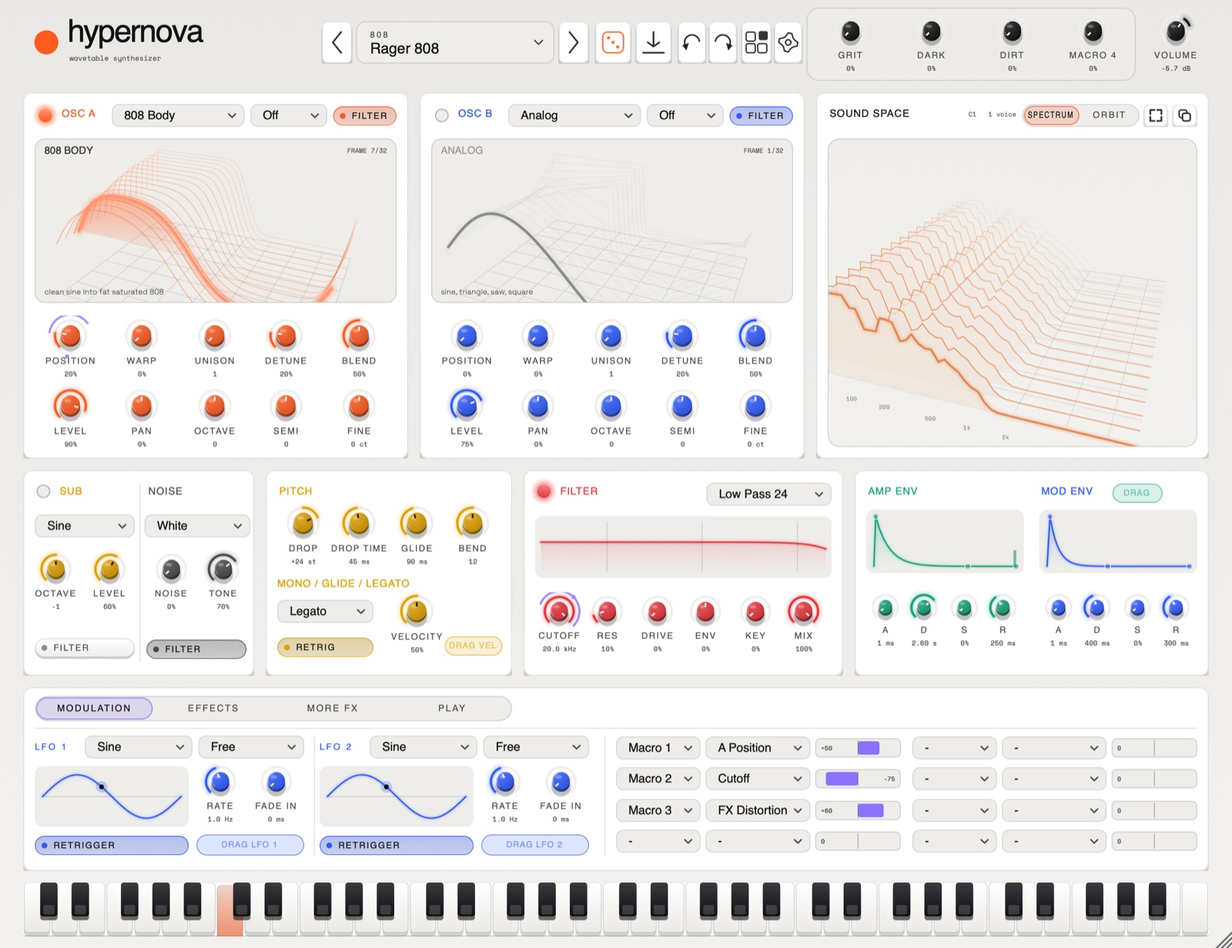
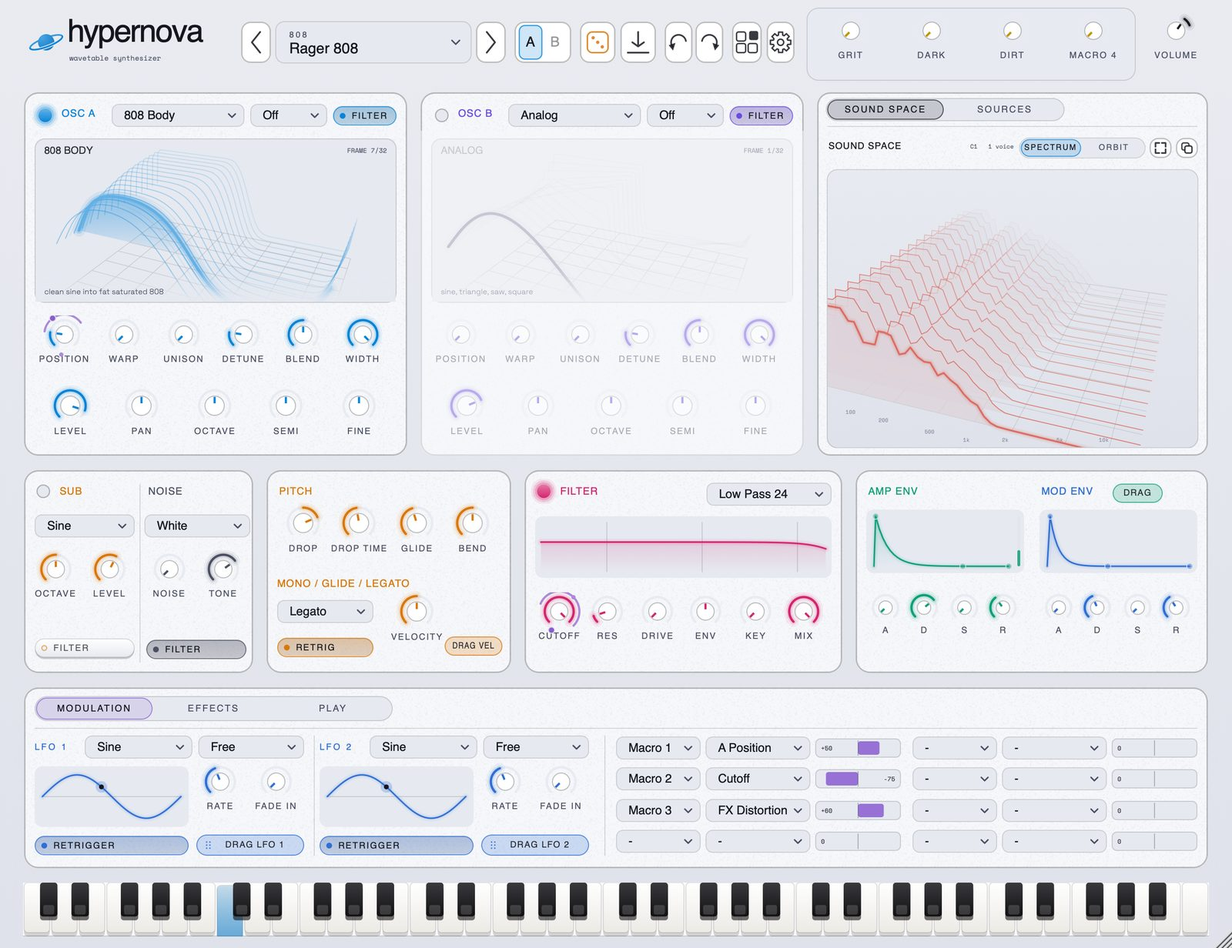
Hypernova 0.10.0: eight oscillators, the effects rack, A/B compare, spring motion, a new mark
Version bump, release notes, ROADMAP (items 11, 13, 14, 16, 25 and everyday workflow), HANDOFF, and
the site: copy for eight oscillators, the rack, 5-band EQ, modulatable effects and A/B; fresh
screenshots in all five themes; effects rack and Sources shots in the layout gallery.

diff --git a/docs/index.html b/docs/index.html
@@ -4,7 +4,7 @@
   <meta charset="utf-8">
   <meta name="viewport" content="width=device-width, initial-scale=1, viewport-fit=cover">
   <title>Hypernova, a wavetable synthesizer for macOS</title>
-  <meta name="description" content="Hypernova is a wavetable synthesizer for macOS. Two oscillators, a sampler, 419 sounds, a panel layout you arrange yourself, wavetable import, cross modulation and fourteen effects. VST3, AU and standalone, for Apple Silicon and Intel.">
+  <meta name="description" content="Hypernova is a wavetable synthesizer for macOS. Up to eight oscillators, a sampler, 419 sounds, a panel layout you arrange yourself, wavetable import, cross modulation and fourteen effects in a rack. VST3, AU and standalone, for Apple Silicon and Intel.">
   <meta name="theme-color" content="#f2f1ee">
   <meta name="color-scheme" content="light">
   <meta property="og:type" content="website">
@@ -16,7 +16,7 @@
   <link rel="preconnect" href="https://fonts.googleapis.com">
   <link rel="preconnect" href="https://fonts.gstatic.com" crossorigin>
   <link rel="stylesheet" href="https://fonts.googleapis.com/css2?family=Space+Grotesk:wght@400;500;700&family=Space+Mono:wght@400;700&display=swap">
-  <link rel="stylesheet" href="style.css?v=5">
+  <link rel="stylesheet" href="style.css?v=6">
   <script src="app.js?v=5" defer></script>
   <script src="play.js?v=5" defer></script>
 </head>
@@ -38,7 +38,7 @@
   <main id="main">
     <section class="hero" aria-labelledby="hero-title">
       <h1 id="hero-title">hypernova.</h1>
-      <p class="tagline">a wavetable synthesizer for macOS.<br>two oscillators, a sampler, 419 sounds, fourteen effects.<br>arrange it however you work.</p>
+      <p class="tagline">a wavetable synthesizer for macOS.<br>up to eight oscillators, a sampler, 419 sounds, fourteen effects.<br>arrange it however you work.</p>
 
       <div class="cta">
         <a class="download" href="https://github.com/erinuckuzular-ai/Hypernova/releases/latest" id="download">download for mac</a>
@@ -48,7 +48,7 @@
 
       <figure class="hero-shot" aria-label="Move the pointer to tilt">
         <img src="assets/theme_paper.jpg" width="1600" height="1233" fetchpriority="high"
-             alt="The Hypernova editor in the Paper theme: two wavetable oscillators in 3D, a spectrum view, filter, envelopes and the modulation deck.">
+             alt="The Hypernova editor in the Paper theme: two wavetable oscillators in 3D, Sound Space, filter, envelopes and the modulation deck.">
       </figure>
     </section>
 
@@ -75,7 +75,7 @@
     <section class="intro section">
       <h2>it does bass properly.</h2>
       <p>808s that decay like 808s. amapiano log drums rebuilt from the FL Studio DX10 patch, parameter for parameter. subs, reeses and growls that keep their low end when you push them. then keys, plucks, pads, stabs, a forty-sound experimental bank, club studies (uk garage, dub, house, baile funk and strange percussion), and a proper set of donks for bounce and hard house.</p>
-      <p>drop a recording anywhere and it plays in the sampler, trimmed and in tune. drop a WAV on an oscillator and it becomes a wavetable. drag an LFO onto a knob and it moves. click an effect's name to switch it off. the rest is where you'd expect it.</p>
+      <p>drop a recording anywhere and it plays in the sampler, trimmed and in tune. drop a WAV on an oscillator and it becomes a wavetable. drag an LFO onto a knob and it moves; drag the ring to set how far. press + OSC for another oscillator. click b to try an idea and a to hear where you started. the rest is where you'd expect it.</p>
     </section>
 
     <section id="specs" class="section" aria-labelledby="specs-title">
@@ -84,7 +84,8 @@
         <div>
           <h3>sound</h3>
           <ul class="spec">
-            <li>2 WAVETABLE OSCILLATORS, 7-VOICE UNISON</li>
+            <li>UP TO 8 WAVETABLE OSCILLATORS, 7-VOICE UNISON</li>
+            <li>SOURCES MIXER: LEVEL, PAN, FILTER ROUTE</li>
             <li>SAMPLER: DROP, TRIM, LOOP, REVERSE, AUTO-TUNED ROOT</li>
             <li>15 BUILT-IN TABLES &times; 32 FRAMES</li>
             <li>IMPORT YOUR OWN WAVETABLES FROM WAV</li>
@@ -102,7 +103,7 @@
             <li>2 LFOS, TEMPO SYNC, FADE IN</li>
             <li>8-SLOT MOD MATRIX, 4 MACROS</li>
             <li>DRAG A SOURCE ONTO ANY KNOB</li>
-            <li>LIVE MODULATION RINGS</li>
+            <li>LIVE MODULATION RINGS, DRAG THEM FOR DEPTH</li>
             <li>ARPEGGIATOR, CHORD MEMORY, STRUM</li>
             <li>MONO, LEGATO AND GLIDE</li>
             <li>XY PAD, LIVE MOD MONITOR</li>
@@ -117,9 +118,10 @@
             <li>TRANCE GATE, AUTO PAN, SWEPT FILTER</li>
             <li>DELAY: DIGITAL, REVERSE, GRANULAR</li>
             <li>REVERB: SPACE, PLATE, SPRING, ROOM</li>
-            <li>PITCH SHIFTER, EQ, WIDTH, MONO BASS</li>
-            <li>CLICK A NAME TO BYPASS IT</li>
-            <li>DRAG THE CHAIN INTO ANY ORDER, SAVE CHAINS</li>
+            <li>PITCH SHIFTER, 5-BAND EQ, WIDTH, MONO BASS</li>
+            <li>EVERY EFFECT A MODULE WITH A LIVE 3D DISPLAY</li>
+            <li>DRAG THEM INTO ANY ORDER, SAVE CHAINS</li>
+            <li>MODULATE ANY EFFECT CONTROL</li>
             <li>LOW END: CLEAN SUB UNDER THE EFFECTS, TEMPO DUCK</li>
           </ul>
         </div>
@@ -128,6 +130,7 @@
           <ul class="spec">
             <li>419 FACTORY SOUNDS + 22 FOUNDERS PACK</li>
             <li>SHARE SOUNDS AS .HNPRESET FILES</li>
+            <li>A / B COMPARE, UNDO FOR EVERYTHING</li>
             <li>DOCKING WIDGETS, SAVED WORKSPACES</li>
             <li>SCOPE, LUFS METER, PINBOARD</li>
             <li>5 THEMES, CUSTOM ACCENT COLOUR</li>
@@ -142,7 +145,7 @@
 
     <section id="layout" class="section" aria-labelledby="layout-title">
       <h2 id="layout-title">your layout.</h2>
-      <p class="lede">every panel is a widget. grab one by its name and drop it anywhere: in the middle of another to make tabs, beside it to split. drag the gaps to resize, double-click a title to fill the window. add a scope, a loudness meter, an XY pad, a live mod monitor or a pinboard of your own knobs from the widget library, and save the lot as a workspace. none of it touches the sound.</p>
+      <p class="lede">every panel is a widget. grab one by its name and drop it anywhere: in the middle of another to make tabs, beside it to split. drag the gaps to resize, double-click a title to fill the window. add a scope, a loudness meter, an XY pad, a live mod monitor or a pinboard of your own knobs from the widget library, and save the lot as a workspace. panels spring into place and can be caught mid-move. none of it touches the sound.</p>
       <div class="shots">
         <figure class="shot">
           <img src="assets/widgets_analysis.jpg" width="1600" height="1233" loading="lazy" alt="The Analysis workspace: Sound Space, a scope locked to the note, a loudness meter, a mod monitor, an XY pad and the filter.">
@@ -155,6 +158,14 @@
         <figure class="shot">
           <img src="assets/widgets_layout.jpg" width="1600" height="1233" loading="lazy" alt="Layout mode: each panel has a handle and round buttons, and the widget library sits alongside.">
           <figcaption>LAYOUT MODE + WIDGET LIBRARY</figcaption>
+        </figure>
+        <figure class="shot">
+          <img src="assets/widgets_effects.jpg" width="1600" height="1232" loading="lazy" alt="The Effects workspace: the effects rack, each effect a module with its own live display, over Low End, the filter and the envelopes.">
+          <figcaption>EFFECTS RACK</figcaption>
+        </figure>
+        <figure class="shot">
+          <img src="assets/widgets_sources.jpg" width="1600" height="1232" loading="lazy" alt="Two added oscillators as tabs beside Osc B, and the Sources mixer with a row for every source.">
+          <figcaption>EIGHT OSCILLATORS + SOURCES</figcaption>
         </figure>
       </div>
     </section>

diff --git a/HANDOFF.md b/HANDOFF.md
@@ -1,10 +1,10 @@
 # Hypernova — handoff
 
-This is everything another engineer (human or AI) needs to pick up Hypernova where it stands on 21 September 2026: what it is, how it got here, how the code is organised, how the work has been done so far, what is still open, and exactly what to do to ship an update — including the download page.
+This is everything another engineer (human or AI) needs to pick up Hypernova where it stands on 22 September 2026: what it is, how it got here, how the code is organised, how the work has been done so far, what is still open, and exactly what to do to ship an update — including the download page.
 
 Owner: Erin (GitHub `erinuckuzular-ai`). The repo is public: https://github.com/erinuckuzular-ai/Hypernova
 Download page: https://erinuckuzular-ai.github.io/Hypernova/
-Current release: **0.5.1** (signed and notarized, published on GitHub).
+Current release: **0.10.0** (signed and notarized, published on GitHub). Development happens in the worktree `~/Hypernova-sampler` (branch `sampler`), fast-forwarded into `main` for each release.
 
 ---
 
@@ -14,12 +14,13 @@ A wavetable synthesizer plug-in for macOS (VST3, AU and a standalone app), built
 
 Current feature set:
 
-- **Sound:** 2 wavetable oscillators (15 built-in tables × 32 frames, position morph, 3D view), 7-voice unison, warps (sync, bend, mirror, PWM, crush, true FM), user wavetable import from WAV, audio-rate cross modulation (FM both ways, ring, AM, filter FM), sub oscillator, 8 noise types (white, pink, brown, blue, vinyl crackle, tape hiss, digital, wind), 8 filter types (LP12, LP24, HP, BP, notch, dirty, comb, formant), pitch drop envelope, glide, poly/mono/legato, drift, chord memory, strum, arpeggiator.
+- **Sound:** up to 8 wavetable oscillators (A and B, plus C to H added with + OSC; 15 built-in tables × 32 frames, position morph, 3D view), a Sources mixer, a sampler (drop any recording in; loops, reverse, root detection), 7-voice unison, warps (sync, bend, mirror, PWM, crush, true FM), user wavetable import from WAV, audio-rate cross modulation (FM both ways, ring, AM, filter FM), sub oscillator, 8 noise types (white, pink, brown, blue, vinyl crackle, tape hiss, digital, wind), 8 filter types (LP12, LP24, HP, BP, notch, dirty, comb, formant), pitch drop envelope, glide, poly/mono/legato, drift, chord memory, strum, arpeggiator.
 - **Modulation:** 2 envelopes with draggable handles, 2 LFOs (tempo sync, fade-in), an 8-slot mod matrix, 4 macros. Drag an LFO, the mod envelope or velocity onto any knob to modulate it; knobs draw a live modulation ring. Right-click any knob for the full source list, clear, or reset.
-- **Effects:** distortion (6 types, 4× oversampled), tape wear, OTT, pitch shifter, chorus (classic/ensemble/dimension), flanger, FX filter with synced sweep, trance gate with patterns, auto-pan, delay (digital/reverse/granular, ping-pong), reverb (space/plate/spring/room, shimmer), EQ, width, mono bass. Click an effect's name to bypass it. Effects are split over two deck tabs, EFFECTS and MORE FX.
+- **Effects:** an Effects Rack where every effect is a module with its own live 3D display, dragged along the chain by its name; a Low End split that keeps the sub clean under the effects; distortion (6 types, 4× oversampled), tape wear, OTT, pitch shifter, chorus (classic/ensemble/dimension), flanger, FX filter with synced sweep, trance gate with patterns, auto-pan, delay (digital/reverse/granular, ping-pong), reverb (space/plate/spring/room, shimmer), 5-band EQ with a draggable curve, width, mono bass. Every effect control can be modulated.
 - **Sounds:** 362 factory presets (808s, log drums, subs, reeses, growls, house stabs, techno, dub/dancehall, keys, plucks, pads, strings, bells, voices, arps, synth drums, cinematic, retro, folk instruments, soundscapes, a 40-sound Experimental bank) plus the 22-sound **FOUNDERS PACK**. Presets are shareable `.hnpreset` files; `.zip` sound packs can be dragged onto the window.
 - **Visuals:** Sound Space visualiser (3D spectrum, orbit, and a stereo view with goniometer, phase correlation and width by frequency), which can expand to fill the window or pop out into its own resizable window.
 - **Looks:** five themes — **Paper** (the default house look), Cosmic, Blackout, Daylight, Vapor — plus user accent colour, backdrop scene and brightness, knob style (planet, ring, minimal, machined), panel style (glass, flat, outlined), keyboard toggle and "always show knob values". Settings are per user, saved in `~/Library/Application Support/Arrow/Hypernova/look.xml`.
+- **Interface:** a docking widget layout (drag, stack, split, resize, collapse, hide, replace; a widget library; four workspaces), panels that move on interruptible springs, A/B compare, type-in values, drag the modulation ring for depth.
 - **Workflow:** preset browser (search, categories, favourites, audition while arrowing), undo/redo, dice menu (nudge/mutate/new) plus per-section dice with padlocks (oscillators, filter, modulation, effects), in-app update banner (checks GitHub at most once a day, one click downloads and opens the new installer).
 - **Performance:** the voice engine oversamples only patches that alias; the plug-in sleeps when silent (~0% CPU); an open editor with nothing playing uses about 2% of a core (3.5% in the animated Cosmic theme). Audio benchmark: 1.5% average, 9.4% worst case per instance.
 - **Compatibility:** universal binary; Intel builds run on macOS 10.13+, Apple Silicon on 11+. The installer app needs macOS 12+; older systems use the plain `.pkg` in the DMG's "Everything else" folder.
@@ -35,6 +36,9 @@ Current feature set:
 5. **0.4.1.** The user's Monterey (12.7.1) Mac couldn't open the AU or the installer. Cause: `CMAKE_OSX_DEPLOYMENT_TARGET` was set after `project()`, so builds silently targeted macOS 26. Fixed (10.13 Intel / 11 Apple Silicon), installer retargeted to macOS 12, plug-in open time cut from ~0.9 s to ~0.12 s. Notarization credentials had to be re-saved using the App Store Connect API key (see section 6).
 6. **0.5.0.** Feedback from a friend (Kauai) plus research into Pigments/Vital/Serum requests: noise types, draggable envelopes, drag-to-modulate, click-name bypass, clearer mono/glide/legato, logo easter egg, stereo view and pop-out visualiser, wavetable import, cross-mod, the whole second effects rack, themes and customisation, bundled fonts, roomier layout, section dice, sound packs. Download site moved from a Cloudflare draft to **GitHub Pages from `docs/`** (the user asked for the same setup as their Arrow Switch project). Site and plug-in rebranded to a quieter, Teenage-Engineering-inspired voice (the user's stated competition): light, lowercase, spec-sheet copy, one orange accent. Paper theme became the default; the logo is an orange dot plus lowercase "hypernova".
 7. **0.5.1.** The user reported "it's so bugged" and "heavy on the CPU". Driving the standalone app found: the PLAY page was empty (page switcher looped over 3 of 4 pages), pop-up menus ignored the plug-in's look, the preset browser was unreadable in light themes, right-click on knobs did nothing, theme switches left stale cached colours, the expanded visualiser was see-through, several clipped labels. CPU: idle editor 11–18% → ~2%. Plus a 3D pass (machined encoder knobs, lifted panels, switches with travel, deep keyboard keys, livelier 3D views with reflections and a comet trail, knob light trails) and the installer/DMG/icons rebranded to Paper.
+
+8. **0.6.0–0.9.0.** "Modular means widgets": the fixed layout became a docking widget layout with workspaces (layout state separate from patch state), a widget library and tool widgets; then the sampler (0.7.0), the reorderable FX chain (0.8.0), Low End and ten new donks (0.9.0; the old Donk Bass was "dog shit" and is retired, hidden but keeping its program number).
+9. **0.10.0 (the combined pass).** The user asked for it to "feel like apple" in function and ease of use, and chose "up to 8 oscillators" and the combined pass: Sources mixer + eight oscillators, the Effects Rack (Soundtoys EffectRack-style modules, each "its own plugin", with the 3D visuals people loved), every effect modulatable, 5-band EQ, knobs with type-in values, fine drag and drag-the-ring depth, A/B compare and Init, interruptible spring motion (the apple-design skill), a layout lint after an embarrassing DONE-over-the-macros overlap, a new logo mark (the wordmark text stays), and premium panel faces.
 
 ---
 
@@ -64,8 +68,13 @@ Source/
                         the audio thread reads an atomic pointer; replaced ones are retired for 3 s; FLAC in state
   UI/LowEndView.h       Low End split spectrum (drag the crossover). DSP: Effects::processLowBand + LR split in
                         Effects::process; phone check = processor.speakerCheck (atomic, not a parameter)
-  UI/FxChain.h          FX Chain widget (drag to reorder, bypass lights); order lives in state property "fxOrder",
-                        packed into an atomic for the audio thread; Effects::process runs it with a fade on change
+  UI/FxRack.h           Effects Rack: FxModule (one effect's controls + live 3D display, EQ curve editing) and
+                        EffectsRack (drag along the chain, springs, momentum scroll, rubber-band ends). Order lives
+                        in state property "fxOrder" (atomic for the audio thread, faded on change); rack membership
+                        in "fxRack"
+  UI/SourcesView.h      Sources mixer (a row per source: on, level, pan, filter route; + OSC adds C to H)
+  UI/Motion.h           springs (response/damping), velocity tracking, projection, rubber-banding, BoundsSprings
+                        (moves widgets); honours macOS Reduce Motion
   UI/SamplerView.h      sampler waveform editor (flags, loop brackets, playhead, drop to load)
   UI/Dock.h             docking layout tree (splits and tabbed leaves): layout, drop targets, dividers, save/load
   UI/Widgets.h          Widget (panel + Spread responsive relayout + edit chrome), StackTabs, DockOverlay (all
@@ -116,7 +125,8 @@ docs/                   THE DOWNLOAD PAGE (GitHub Pages serves main:/docs)
 2. **Measure before and after.** Every fidelity, click, loudness and CPU claim comes from a tool:
    - `./build/SmokeTest_artefacts/Release/SmokeTest` — full suite (renders all presets, timing, round-trip, pack, chords, arp, sleep/wake). Must print `ALL OK`.
    - `--bench` (audio CPU per preset), `--loudness` (feeds level_presets.py), `--lowend` (sub energy per bass), `--clicks [preset]` (note-change clicks), `--fidelity`, `--newfx` (every newer effect stays finite and audible), `--import <wav>` (wavetable import round trip), `--opentime` (table build time + checksum), `--note "<preset>" <note> <out.wav>`.
-   - `./build/UISnapshot_artefacts/Release/UISnapshot <dir>` renders every deck page, the browser and the stereo view. Use `HYPERNOVA_THEME=<Paper|Cosmic|Blackout|Daylight|Vapor>` to force a theme and `HYPERNOVA_NO_UPDATE_CHECK=1` to stop network calls. `--paintbench` lists the most expensive components.
+   - `./build/UISnapshot_artefacts/Release/UISnapshot <dir>` renders every deck page, the browser and the stereo view. Use `HYPERNOVA_THEME=<Paper|Cosmic|Blackout|Daylight|Vapor>` to force a theme and `HYPERNOVA_NO_UPDATE_CHECK=1` to stop network calls. `--paintbench` lists the most expensive components. `--layouttest` drives the docking, rack, oscillator and motion rules; `--lint` fails on any overlap, clipping or squashed label in every workspace (normal and layout mode). Set `HYPERNOVA_WORKSPACE_FOLDER` to a scratch folder so tests never touch the user's workspaces.
+   - More SmokeTest modes: `--sampler`, `--fxorder`, `--lowarch`, `--eqcheck`, `--compare` (A/B).
    - For real-world checks, open the standalone (`build/Hypernova_artefacts/Release/Standalone/Hypernova.app`) and click through every menu, tab and view; measure CPU with `ps -o %cpu= -p <pid>` and profile with `sample <pid> 4`.
 3. **Look at every rendered screen yourself** in all five themes before calling UI work done (contact sheets were used). Screenshots render with the CPU backdrop; the plug-in uses the GPU shader.
 4. **Commit small, with explanatory messages** (what changed and why, in plain prose). Every commit ends with a co-author line. Build, run SmokeTest, then commit.
@@ -169,7 +179,7 @@ From the user's requests and research that haven't been done yet:
 
 1. **More 3D / "edgy and fun"** — the user's latest direction. Ideas queued: a persistent modulation strip above the deck with live mini-scopes (the Pigments feature reviewers love most), an XY "orbiter" macro pad (drag a comet through a star field to morph many parameters), wavetable views reacting harder to modulation (ghost frame at the modulated position tinted by the source colour), hover-to-reveal targets in both directions, knob "click" feedback.
 2. **Playing and control:** MIDI learn for knobs, MPE, velocity and mod-wheel curves. (The step sequencer is excluded; see ROADMAP.md.)
-3. **From the feature research:** mod-matrix remap curves and drawable LFO shapes, a second filter with serial/parallel routing, unison spread modes, microtuning (MTS-ESP / Scala), envelope follower / sidechain as a mod source, A/B compare, reorderable effects chain, per-voice random / free-running phase, more filter models (ladder, diode). Formant shifter was requested but skipped (needs spectral processing).
+3. **From the feature research:** mod-matrix remap curves and drawable LFO shapes, a second filter with serial/parallel routing, unison spread modes, microtuning (MTS-ESP / Scala), envelope follower / sidechain as a mod source, per-voice random / free-running phase, more filter models (ladder, diode). Formant shifter was requested but skipped (needs spectral processing).
 4. **Preset browser:** tags, audition on hover, preset thumbnails.
 5. **Verification gaps:** the installer app has not been run on a real macOS 12 machine; notes on the standalone's on-screen keyboard weren't audibly checked in the last session (automated audio tests pass); pop-out window behaviour in hosts other than the standalone is untested.
 6. **Repo size:** a folder of test WAVs (~363 MB) was committed by mistake in 0.4.x and removed in `c81ecc2`, but it is still in git history, so clones are large. Cleaning it needs a history rewrite and force-push — only with the owner's explicit OK.
@@ -183,3 +193,5 @@ From the user's requests and research that haven't been done yet:
 - Cares a lot about CPU ("imagine this is on 10 tracks at once") and about things being bug-free ("make sure it's perfect").
 - Dislikes cheesy copy and generic "AI-looking" fonts; prefers the Paper look and the dry lowercase voice.
 - Sound is the priority: 808s must behave like 808s, log drums like the DX10 patch, basses heavy.
+- Wants it to feel like Apple in function and ease of use: respond on press, direct manipulation, nothing jumps. Overlaps and clipped text are "embarrassing": run `UISnapshot <dir> --lint` and look at the renders before shipping.
+- Loved the 3D wavetable and Sound Space views; carry that look into new features.

diff --git a/ROADMAP.md b/ROADMAP.md
@@ -23,24 +23,25 @@ The widget interface comes first because every later feature (sampler, extra sou
 | 7 | Constellation: sound discovery | not started | The conventional searchable browser exists and must be kept. There's no similarity search yet. |
 | 9 | Low-End Architect | partial | Done (0.9.0): the Low End widget. A phase-coherent Linkwitz-Riley split (40–300 Hz, draggable on a live split spectrum). The upper band goes through the effects rack while the sub stays clean: under full distortion the sub's error drops from 0.95 to 0.10 (tested). The sub has its own level, warmth and mono, and a tempo-synced duck (a sidechain-style pump without a sidechain). There's a band-balance readout and a phone-speaker check that's monitoring-only and never saved. It adds no latency (IIR crossover), and switching it on mid-note doesn't click. Missing: real kick sidechain input (the host has to support a sidechain on instruments). |
 | 10 | Living patches: expressive response | partial | Existing: velocity routing and the DRAG VEL chip. Missing: per-note expression (MPE), pressure and note-position responses. |
-| 11 | Modular sound sources | not started | |
+| 11 | Modular sound sources | partial | Done (0.10.0): up to eight wavetable oscillators in one sound (A and B plus C to H, switched on with + OSC or Add Oscillator in the library, each with its own table, warp, unison, detune, blend, width, level, pan, pitch and filter switch; FM for C to H comes from A). The Sources widget is a mixer of every source (oscillators, sub, noise, sampler): on light, level, pan, filter routing, click a name to open its panel. Worst-case CPU with all eight at full unison measured at 8.6% of realtime (`SmokeTest --bench`). Missing: other source types as addable modules, per-source routing to buses (item 12). |
 | 12 | Flexible audio routing | not started | |
-| 13 | Rearrangeable effects racks | partial | Done (0.8.0): the FX Chain widget. Drag effects into any order and the others make room. Reordering while playing dips instead of clicking (tested). Click an effect's light to bypass it, or its name to open its controls. The order is saved in sessions and presets and is undoable. Effect-chain presets save the order and every effect setting (`.hnchain`). Automation stays attached because parameter IDs don't change. Missing: multiple instances of one effect, duplicate/remove/replace, and moving effects between channels (needs item 12). |
-| 14 | Proper effect editors | partial | There are per-effect controls with units and on/off switches. Missing: curve displays, modulation access from the effect itself, searchable replacement. |
+| 13 | Rearrangeable effects racks | partial | Done (0.8.0, rebuilt in 0.10.0): the Effects Rack. Every effect is its own module with all its controls and a live display; drag a module by its name along the chain and the others spring out of the way; + ADD puts an effect in the rack, the x takes it out (and switches it off). Reordering while playing dips instead of clicking (tested). The order and rack are saved in sessions and presets and are undoable; chain presets (`.hnchain`) keep the order and every setting. The rack scrolls when squeezed: pull it by its background with momentum, and its ends rubber-band. Missing: multiple instances of one effect, replace in place, and moving effects between channels (needs item 12). |
+| 14 | Proper effect editors | partial | Done (0.10.0): each rack module is a full editor with a live 3D display (spectrum waterfalls, the delay's echoes, the reverb's tail, the gate's pattern, the stereo field). The EQ is five bands (low cut, low shelf, two bells, high shelf) with draggable points on its curve; it matches the old shelves to within 0.013 dB (`SmokeTest --eqcheck`). Every effect control can be modulated: drag an LFO, envelope or macro chip onto it. Missing: searchable replacement. |
 | 15 | Dedicated sampler | implemented (0.7.0) | A sampler widget alongside the oscillators. Import by dropping a file anywhere, or with LOAD (WAV, AIFF, FLAC, MP3, M4A, CAF, OGG; up to 60 s). The waveform editor has draggable start/end flags and loop brackets and a live playhead. The root note is detected on load (with fine tuning) and the start is set to the onset. Key tracking on or off, semitone and fine tuning, no loop, forward loop (crossfaded seam) or ping-pong, reverse, its own ADSR, level and pan, and a filter route. Replace and remove are in the LOAD menu. The sample is embedded as FLAC in sessions and exported presets, so there are no missing files. Tested with `SmokeTest --sampler`. Multi-sample zones belong to item 28 and slicing to item 21. |
-| 16 | Customisable widget interface | partial | Done: the panels are widgets in a docking layout, so there are no gaps or overlaps. You can grab a widget by its title in normal use (or anywhere in layout mode) and drop it to stack as a tab, split beside another widget or dock along an edge. Gaps drag to resize. Given more room, a widget grows its displays instead of zooming. Widgets can be collapsed to a strip, maximised, hidden, replaced and duplicated, and structural changes have undo/redo. There's a widget library with click-to-add or drag-to-place, and new tool widgets (Scope, Loudness Meter, XY Pad, Mod Monitor, Macros, Pinboard). Pinned controls: right-click any knob and choose Pin to pinboard. Missing: the optional routing view (needs item 12). |
+| 16 | Customisable widget interface | partial | Done: the panels are widgets in a docking layout, so there are no gaps or overlaps. You can grab a widget by its title in normal use (or anywhere in layout mode) and drop it to stack as a tab, split beside another widget or dock along an edge. Gaps drag to resize. Given more room, a widget grows its displays instead of zooming. Widgets can be collapsed to a strip, maximised, hidden, replaced and duplicated, and structural changes have undo/redo. There's a widget library with click-to-add or drag-to-place, and new tool widgets (Scope, Loudness Meter, XY Pad, Mod Monitor, Macros, Pinboard). Pinned controls: right-click any knob and choose Pin to pinboard. 0.10.0: panels, drag ghosts and rack modules move on interruptible, velocity-aware springs (a dropped panel lands at the speed it was thrown; Reduce Motion is honoured); new widgets join a tab stack rather than squeezing panels below their minimum; layout-mode titles never run into their buttons (the lint fails if they do); switched-off sources fade back. Missing: the optional routing view (needs item 12). |
 | 17 | Hypernova FX companion plugin | not started | |
 | 18 | Saved workspaces | partial | Done: Sound Design, Sampling, Effects and Analysis defaults; save, load, rename, duplicate, delete and reset; the last workspace is restored and each keeps its own edits. Layouts, including tool settings, are stored in `workspaces.xml`, separate from patch state; switching never touches the sound (tested). The Sampling default is there (0.7.0). Missing: opt-in patch-associated layouts. |
 | 19 | Reusable mini-instruments | not started | |
 | 21 | Chop Lab | not started | Builds on the sampler (item 15). |
 | 23 | Interchangeable synthesis engines | not started | |
 | 24 | Physical models and resonators | not started | |
-| 25 | Expanded modular modulation | partial | Existing: 2 LFOs, a mod envelope, drag-to-modulate, the mod matrix and macros. Missing: addable LFOs, drawable envelopes, envelope followers, random sources, modulation conditioning. |
+| 25 | Expanded modular modulation | partial | Existing: 2 LFOs, a mod envelope, drag-to-modulate, the mod matrix and macros. 0.10.0: 27 effect controls and every oscillator's position and level are destinations; drag a knob's modulation ring to set how much is sent, and right-click a knob for each source's depth. Missing: addable LFOs, drawable envelopes, envelope followers, random sources, modulation conditioning. |
 | 28 | Instrument zones and layers | not started | |
 | 29 | Sound worlds | not started | |
 | 30 | Patch exploration and learning | not started | |
 | 31 | Resample into a new module | not started | |
 | 32 | Character modules | partial | Existing: TAPE (wobble, noise, saturate) and distortion styles as fixed effects. Missing: placing them per layer or bus, early-digital sampling and companding, speaker/mic colouration. |
+| — | Everyday workflow | implemented (0.10.0) | A/B compare (an undoable switch; presets load into the slot you're on; sessions remember the slot), Init in the new-sound menu, type-in values (double-click a knob's value), shift-drag for fine moves, pressed states that show on the press. Tested with `SmokeTest --compare`. |
 | — | New sound catalogue | partial | Donk & Bounce (0.9.0): 10 FM donks designed from the two-operator donk recipe and checked by measurement only (attack brightness 320–1,260 Hz, settled 160–430 Hz, in tune). The old "Donk Bass" is retired: hidden, but its program number is kept. 48 Club Studies presets were added, relevelled and measured (UK dub, UK garage, house bass and stabs, baile funk, club percussion, club experimental). They have been checked by measurement only, not by ear. More dusty keys, organs and hybrid instruments are still needed. |
 
 ## Interface removals (done)
@@ -62,4 +63,8 @@ The widget interface comes first because every later feature (sampler, extra sou
 ## Tests
 
 - `UISnapshot <dir> --layouttest`: dock tree logic; the classic default layout; no gaps or overlaps after every operation; the overlay only takes titles and gaps in normal use; dragging gaps and titles through the real mouse handlers; maximise grows displays without ballooning knobs; hide, add, stack, split, edge dock, collapse, replace and duplicate; pinboard; undo/redo; workspace round trips; patch state unchanged.
-- `UISnapshot <dir>`: renders `ui_6_layout_edit.png` and `ui_7_effects_workspace.png` along with the existing views. Set `HYPERNOVA_THEME` to render each theme. Tests use a scratch workspace folder, never the user's.
+- `UISnapshot <dir> --layouttest` also covers: adding up to eight oscillators and removing one (Sources rows follow), the rack (add, drag along the chain, remove, scroll, pull past the ends and spring back, flick), and the motion maths (critically damped springs, redirecting mid-flight, thrown springs, projection, rubber-banding).
+- `UISnapshot <dir> --lint`: every workspace, in use and in layout mode: nothing poking out of its parent, no overlapping siblings, button text that fits, knob labels not squashed, nothing over the macro tray, layout-mode titles clear of their buttons.
+- `UISnapshot <dir> --paintbench`: the cost of a full frame at 2x, of one panel face, and the heaviest components.
+- `UISnapshot <dir>`: renders every view, including `ui_10_sources.png` (Sources with two added oscillators). Set `HYPERNOVA_THEME` to render a theme as it ships (this machine's look tweaks are ignored). Tests use a scratch workspace folder (`HYPERNOVA_WORKSPACE_FOLDER`), never the user's.
+- `SmokeTest` modes: default (every preset renders, CPU), `--newfx`, `--sampler`, `--fxorder`, `--lowarch`, `--eqcheck`, `--compare`, `--bench`.

diff --git a/packaging/release-notes.md b/packaging/release-notes.md
@@ -1,15 +1,31 @@
-Download **Hypernova-0.9.0.dmg**, open it and double-click **Install Hypernova**. It installs over any older version and keeps your saved sounds. Signed and notarized by Apple. Apple Silicon + Intel, macOS 10.13 and later.
+Download **Hypernova-0.10.0.dmg**, open it and double-click **Install Hypernova**. It installs over any older version and keeps your saved sounds. Signed and notarized by Apple. Apple Silicon + Intel, macOS 10.13 and later.
 
-## low end
-- **a clean sub under any effects.** switch on low end and everything below the split (40 to 300 Hz, drag the line on its spectrum) skips the effects, so you can distort, chorus and reverb the top of a bass while the sub stays solid and centred.
-- **sub level, warmth and mono** for the low band on its own.
-- **duck**: a tempo-synced sidechain-style pump on just the sub, at 1/4, 1/8, 1/2, a bar or 1/16.
-- **phone check**: hear the mix through a phone speaker. it's monitoring only, never part of the sound, never saved.
-- no added latency, and switching it on while a note plays doesn't click.
+## eight oscillators
+- **up to eight wavetable oscillators in one sound.** press **+ OSC** (or drag *add oscillator* in from the library) and osc c to h join a and b, each with its own table, warp, unison, detune, blend, width, level, pan, pitch and filter switch.
+- **sources**: every sound source in one mixer. on light, level, pan and filter routing for each oscillator, the sub, the noise and the sampler. click a name to open its panel.
+- unison **width** now lives on each oscillator.
 
-## donks
-- **ten new donk basses** in a new *donk & bounce* category: scouse, bamboo, hard house, bounce, rubber, gont, donk + sub, hardbass, pipe and deep house. built the proper way (a two-operator fm "bonk" with a quick pitch blip), with BONK, TONE, DIRT and SPACE on the macros.
-- the old donk bass is gone from the browser.
+## effects rack
+- **every effect is its own module**, with all its controls and a live 3D display (spectrum waterfalls, the delay's echoes, the reverb's tail, the gate's pattern, the stereo field). drag a module by its name to move it along the chain.
+- **+ ADD** puts an effect in the rack, the x takes it out. the rack scrolls when it's squeezed: pull it by its background, flick it, and its ends give a little.
+- **eq**: five bands (low cut, low shelf, two bells, high shelf). drag the points on its curve.
+- **every effect control can be modulated**: drag an lfo, envelope or macro chip onto it.
 
-## fx chain
-- **scrolls** when it's squeezed into a narrow spot, instead of shrinking the chips. swipe or scroll sideways; drag an effect to the edge and the row scrolls with you.
+## knobs
+- **drag the modulation ring** to set how much an lfo or envelope sends; right-click a knob for each source's depth. double-click the ring to clear it.
+- right-click a knob and choose **type a value**. shift-drag for fine moves.
+
+## compare and start fresh
+- **a / b** in the header: click b to try changes on a copy, a to hear the original. right-click it to copy one over the other. presets load into the slot you're on, and undo works across a switch.
+- **init** is in the new-sound menu (the dice), with roll, nudge and mutate.
+
+## feel
+- panels, dragged widgets and rack modules move on springs: they start from where they are, keep the speed you let go at, and can be grabbed mid-move. *reduce motion* in macos settings turns this off.
+- buttons and switches show they're pressed the moment you press.
+- panels for switched-off sources fade back, so what's playing stands out.
+- tidier layout mode: titles never run into their buttons, library cards don't overlap, each widget has its own icon.
+- a clearer mod monitor, loudness meter (with a scale and a 20 s history), low end view and scope.
+
+## look
+- **a new mark**: a lit core with an orbit ring. the wordmark is the same.
+- panels have a lit top edge, a soft shadow and a fine grain.
